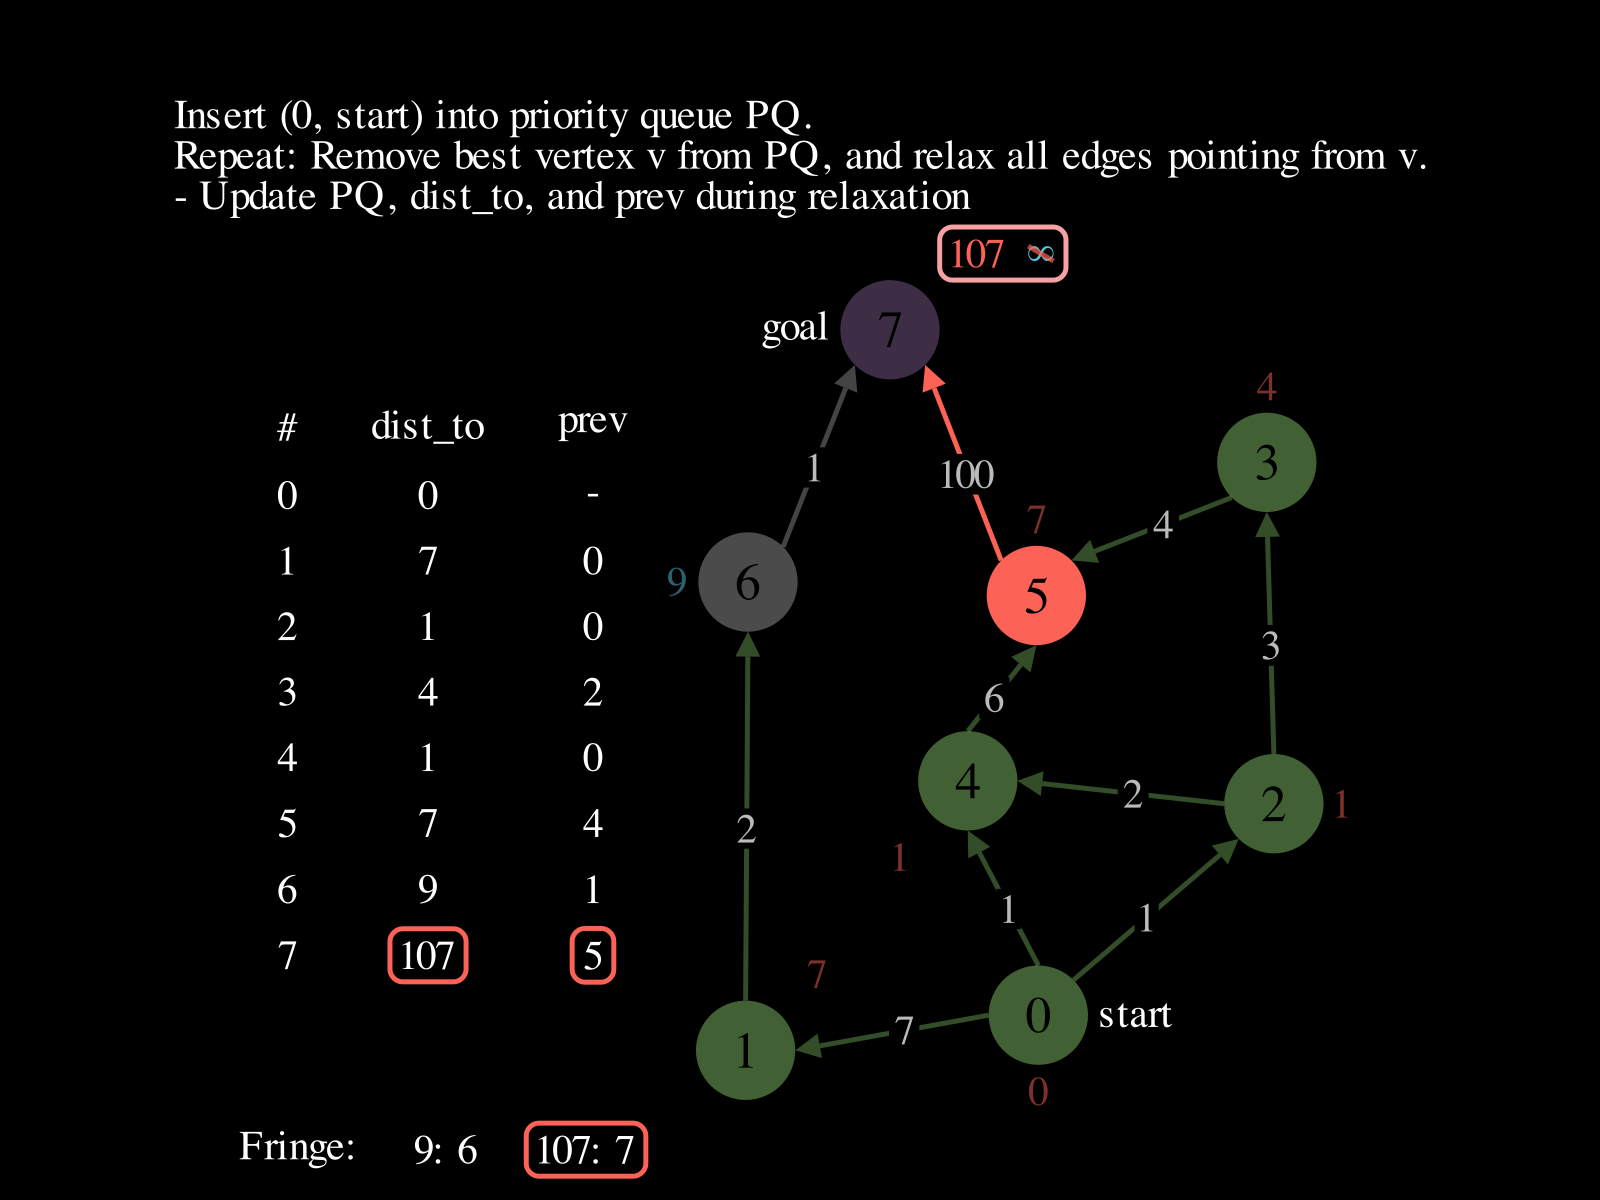
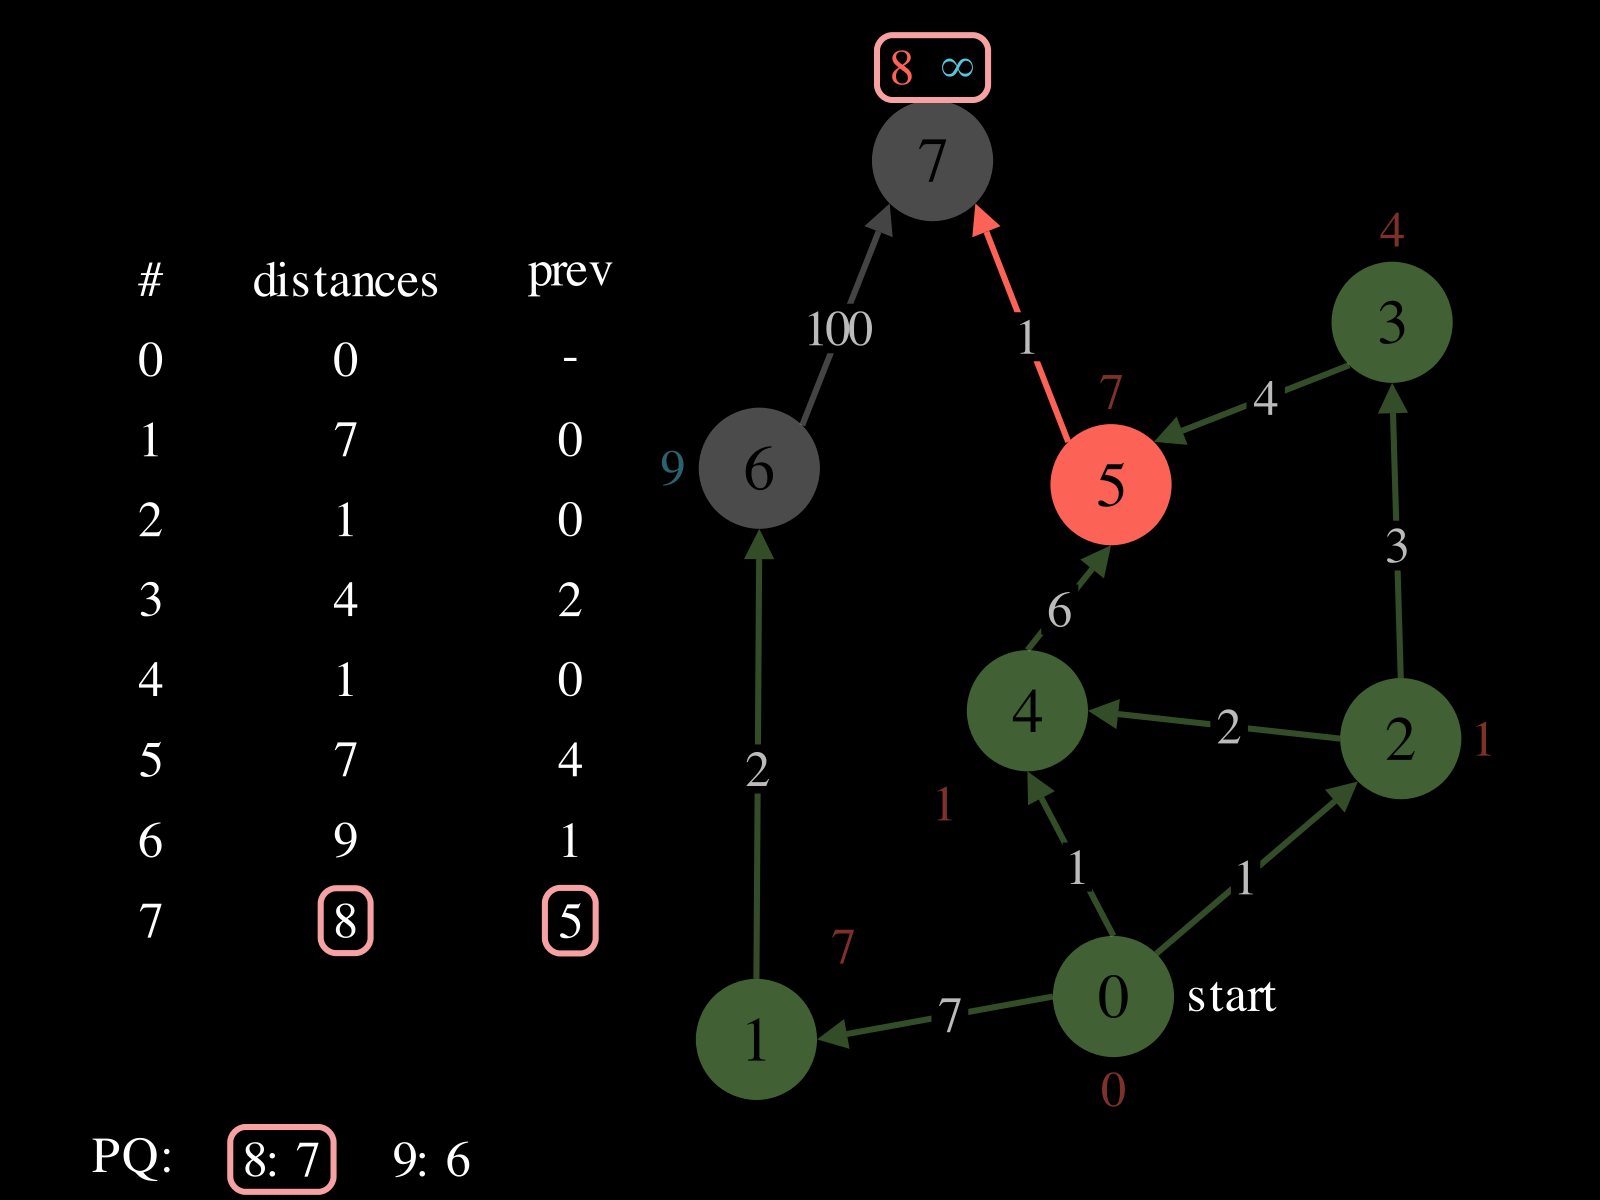
show pure dijkstras, not start to end, in slideshow; clean slideshow

diff --git a/manim-src/dijkstras_with_state.py b/manim-src/dijkstras_with_state.py
@@ -1,6 +1,6 @@
 from manim import *
 from dijkstras import WeightedDiGraph
-from typing import Hashable, Tuple
+from typing import Hashable, Tuple, Literal
 import heapq
 
 START_COLOR = GREEN
@@ -44,6 +44,20 @@ GRAPH2 = {
 START2 = 0
 END2 = 7
 
+# swap 2 weights in GRAPH2 to show how best dist already explored but we keep going
+GRAPH3 = {
+    0: [(1, 7), (2, 1), (4, 1)],
+    1: [(6, 2)],
+    2: [(3, 3), (4, 2)],
+    3: [(5, 4)],
+    4: [(5, 6)],
+    5: [(7, 1)],
+    6: [(7, 100)],
+    7: [],
+}
+START3 = 0
+END3 = 7
+
 config.frame_size = (1600, 1200)
 
 
@@ -64,7 +78,7 @@ class StatefulWeightedDiGraph(WeightedDiGraph):
         if text is None:
             text = "Insert (0, start) into priority queue PQ.\n"
             text += "Repeat: Remove best vertex v from PQ, and relax all edges pointing from v.\n"
-            text += "- Update PQ, dist_to, and prev during relaxation"
+            text += "- Update PQ, distances, and prev during relaxation"
         text_obj = Text(text, font_size=font_size)
         vertices = VGroup(*self.vertices.values())
         text_obj.next_to(vertices, UP, buff=0.5).to_edge(LEFT, buff=0.5)
@@ -75,7 +89,7 @@ class StatefulWeightedDiGraph(WeightedDiGraph):
         pq.sort()
         if self.fringe:
             self.remove(self.fringe)
-        fringe_group = VGroup(Text("Fringe: ", font_size=self.label_font_size))
+        fringe_group = VGroup(Text("PQ: ", font_size=self.label_font_size))
         fringe_elements = {}
         for key, value in pq:
             key_value_text = Text(f"{key}: {value}", font_size=self.label_font_size)
@@ -96,20 +110,20 @@ class StatefulWeightedDiGraph(WeightedDiGraph):
             fringe_elements  # used for drawing rect on dist label update
         )
 
-    def show_state_table(self, dist_to, prev):
+    def show_state_table(self, distances, prev):
         if self.table_of_state_vars:
             self.remove(self.table_of_state_vars)
 
         headers = [
-            Text(x, font_size=self.label_font_size) for x in ["#", "dist_to", "prev"]
+            Text(x, font_size=self.label_font_size) for x in ["#", "distances", "prev"]
         ]
         rows = [
             [
                 str(node),
-                "∞" if dist_to[node] == float("inf") else str(dist_to[node]),
+                "∞" if distances[node] == float("inf") else str(distances[node]),
                 str(prev.get(node, "-")),
             ]
-            for node in dist_to
+            for node in distances
         ]
 
         table = Table(
@@ -129,7 +143,7 @@ class StatefulWeightedDiGraph(WeightedDiGraph):
 
     def box_state_var(self, node, col, color=RED):
         # oddly the col indices go backwards
-        assert 1 <= col <= 3, "col must be 1 (#), 2 (dist_to), or 3 (prev)"
+        assert 1 <= col <= 3, "col must be 1 (#), 2 (distances), or 3 (prev)"
 
         # +2 = +1 for header +1 as weird workaround for avoiding last element
         dist_cell_to_focus = self.table_of_state_vars.get_entries_without_labels(
@@ -140,9 +154,17 @@ class StatefulWeightedDiGraph(WeightedDiGraph):
         )
         self.state_var_boxes.add(table_box)
 
-    def box_fringe_var(self, node, color=RED):
+    def box_fringe_var(
+        self, node, color=RED, style: Literal["outline", "fill"] = "outline"
+    ):
         fringe_box = SurroundingRectangle(
-            self.fringe_elements[node], color=color, buff=0.1, corner_radius=0.1
+            self.fringe_elements[node],
+            color=color,
+            stroke_opacity=0 if style == "fill" else 1,
+            fill_color=color,
+            fill_opacity=0.7 if style == "fill" else 0,
+            buff=0.1,
+            corner_radius=0.1,
         )
         self.state_var_boxes.add(fringe_box)
 
@@ -183,20 +205,60 @@ class ShortestPath(MovingCameraScene):
     def construct(self):
         # shortest path from start to end of graph
         # returns distance and path
-        def dijkstra(
+        def shortest_path_start_to_end(
             graph: Dict[int, List[Tuple[int, int]]],
             vgraph: StatefulWeightedDiGraph,
             start: int,
             end: int,
+        ):
+
+            distances, prev_vertex = shortest_path_helper(graph, vgraph, start, end)
+            if distances[end] == float("inf"):
+                return -1, []
+
+            path = []
+            node = end
+            # vgraph.show_explanation(
+            #     text="Now, follow the edges backwards, from goal to start"
+            # )
+            while node != start:
+                path.append(node)
+                prev = node  # used for tracking
+                node = prev_vertex[node]
+                vgraph.highlight_node(prev, color=FOCUS_COLOR, opacity=1.0)
+                vgraph.highlight_edge(node, prev, color=FOCUS_COLOR, opacity=1.0)
+                vgraph.box_state_var(prev, 3)
+                self.capture()
+                vgraph.highlight_node(prev, color=FOCUS_COLOR)
+                vgraph.highlight_edge(node, prev, color=FOCUS_COLOR)
+                vgraph.undo_all_box_state_vars()
+            path.append(start)
+            path.reverse()
+            vgraph.highlight_node(node, color=FOCUS_COLOR, opacity=1.0)
+            # vgraph.show_explanation(
+            #     f"The shortest path is {path} with distance {distances[end]}."
+            # )
+            self.capture()
+            return distances[end], path
+
+        # computes dijkstras shortest paths from start
+        # if end is not None, then stop when the end is reached
+        # returns (distances, prev_nodes)
+        def shortest_path_helper(
+            graph: Dict[int, List[Tuple[int, int]]],
+            vgraph: StatefulWeightedDiGraph,
+            start: int,
+            end: int | None = None,
         ) -> Tuple[float, List[int]]:
             distances = {node: float("inf") for node in graph}
             distances[start] = 0
             pq = [(0, start)]
-            prev_node = {}
-            reached = False
+            prev_vertex = {}
 
-            vgraph.show_explanation()
-            vgraph.show_state_table(distances, prev_node)
+            # for color tracking of dist values
+            visited = set([start])
+            # vgraph.show_explanation()
+            vgraph.show_state_table(distances, prev_vertex)
             new_pos = vgraph.get_center()
             self.camera.frame.shift(new_pos)
             scalar = 1.2
@@ -208,18 +270,19 @@ class ShortestPath(MovingCameraScene):
                 vgraph.show_fringe(pq)
                 cur_dist, cur_node = heapq.heappop(pq)
                 # step 1: show node being processed
+                visited.add(cur_node)
                 vgraph.show_dist_label(cur_node, cur_dist)
                 vgraph.highlight_node(cur_node, color=FOCUS_COLOR, opacity=1.0)
 
                 if cur_dist > distances[cur_node]:
                     continue
-                if cur_node == end:
-                    reached = True
-                    self.capture()
-                    vgraph.highlight_node(cur_node)
-                    break
 
-                vgraph.box_fringe_var(cur_node, color=GREEN)
+                # if end exists, stop when it is explored
+                if end is not None and cur_node == end:
+                    self.capture()
+                    return distances, prev_vertex
+
+                vgraph.box_fringe_var(cur_node, style="fill")
                 self.capture()
                 vgraph.undo_all_box_state_vars()
                 # step 2: show relaxation of edges
@@ -234,14 +297,15 @@ class ShortestPath(MovingCameraScene):
                     prev_neighbor_dist = distances[neighbor]  # used for tracking
                     if distance < distances[neighbor]:
                         distances[neighbor] = distance
-                        prev_node[neighbor] = cur_node
+                        prev_vertex[neighbor] = cur_node
                         heapq.heappush(pq, (distance, neighbor))
-                        vgraph.highlight_edge(cur_node, neighbor, opacity=1.0)
-                        vgraph.update_dist_label(
-                            neighbor, distance, prev_neighbor_dist, next(circle_colors)
-                        )
 
                         col = next(circle_colors)
+                        vgraph.highlight_edge(cur_node, neighbor, opacity=1.0)
+                        vgraph.update_dist_label(
+                            neighbor, distance, prev_neighbor_dist, col
+                        )
+
                         fringe_box_args_lst.append((neighbor, col))
                         box_state_var_args_lst.append((neighbor, 2, col))
                         box_state_var_args_lst.append((neighbor, 3, col))
@@ -252,10 +316,16 @@ class ShortestPath(MovingCameraScene):
                         )
 
                     _highlight_edge_args_lst.append((cur_node, neighbor, GREEN))
-                    _dist_label_args_lst.append((neighbor, distance, BEST_SO_FAR_COLOR))
+                    _dist_label_args_lst.append(
+                        (
+                            neighbor,
+                            distances[neighbor],
+                            RED if neighbor in visited else BEST_SO_FAR_COLOR,
+                        )
+                    )
 
                 vgraph.show_fringe(pq)
-                vgraph.show_state_table(distances, prev_node)
+                vgraph.show_state_table(distances, prev_vertex)
                 for args in box_state_var_args_lst:
                     vgraph.box_state_var(*args)
                 for args in fringe_box_args_lst:
@@ -269,41 +339,25 @@ class ShortestPath(MovingCameraScene):
                 for args in _highlight_edge_args_lst:
                     vgraph.highlight_edge(*args)
 
-            if reached:
-                path = []
-                node = end
-                vgraph.show_explanation(
-                    text="Now, follow the edges backwards, from goal to start"
-                )
-                while node != start:
-                    path.append(node)
-                    prev = node  # used for tracking
-                    node = prev_node[node]
-                    vgraph.highlight_node(prev, color=FOCUS_COLOR, opacity=1.0)
-                    vgraph.highlight_edge(node, prev, color=FOCUS_COLOR, opacity=1.0)
-                    vgraph.box_state_var(prev, 3)
-                    self.capture()
-                    vgraph.highlight_node(prev, color=FOCUS_COLOR)
-                    vgraph.highlight_edge(node, prev, color=FOCUS_COLOR)
-                    vgraph.undo_all_box_state_vars()
-                path.append(start)
-                path.reverse()
-                vgraph.highlight_node(node, color=FOCUS_COLOR, opacity=1.0)
-                vgraph.show_explanation(
-                    f"The shortest path is {path} with distance {distances[end]}."
-                )
-                self.capture()
-                return distances[end], path
-            return float("inf"), []
+            self.capture()
+            return distances, prev_vertex
 
         # file_suffix = 1
         # graph, start, end = GRAPH1, START1, END1
-        file_suffix = 2
-        graph, start, end = GRAPH2, START2, END2
+        # file_suffix = 2
+        # graph, start, end = GRAPH2, START2, END2
+
+        file_suffix = 3
+        graph, start, end = GRAPH3, START3, END3
         self.set_file_suffix(file_suffix)
         vertices, edges = ShortestPath.convert_graph_to_digraph_format(graph)
-        vgraph = StatefulWeightedDiGraph(vertices, edges, start=start, end=end)
-        self.add(vgraph)
+        # vgraph = StatefulWeightedDiGraph(vertices, edges, start=start, end=end)
+        # self.add(vgraph)
+        # visualize shortest path from start to end
+        # dist, path = shortest_path_start_to_end(graph, vgraph, start, end)
+        # print(dist, path)
 
-        dist, path = dijkstra(graph, vgraph, start, end)
-        print(dist, path)
+        # visualize shortest path from start to all other vertices (well not the paths but the creation of state vars that can yield the paths)
+        vgraph = StatefulWeightedDiGraph(vertices, edges, start=start)
+        self.add(vgraph)
+        dist, path = shortest_path_helper(graph, vgraph, start)

diff --git a/manim-src/dijkstras.py b/manim-src/dijkstras.py
@@ -236,6 +236,7 @@ class WeightedDiGraph(DiGraph):
         self.dist_labels[node] = dist_label
 
     def update_dist_label(self, node, dist, prev_dist, color=RED):
+        z_index_below, z_index_above = 20, 21
         dist_text = "∞" if dist == float("inf") else str(dist)
         prev_dist_text = "∞" if prev_dist == float("inf") else str(prev_dist)
         new_text = Text(
@@ -246,10 +247,18 @@ class WeightedDiGraph(DiGraph):
         )
         new_text.next_to(old_text, LEFT, buff=0.2)
 
-        text = VGroup(new_text, old_text)
+        text = VGroup(new_text, old_text).set_z_index(z_index_above)
         self.no_overlap_next_to(text, self.vertices[node], LEFT)
 
-        box = SurroundingRectangle(text, color=color, buff=0.1, corner_radius=0.1)
+        box = SurroundingRectangle(
+            text,
+            color=color,
+            fill_color=config.background_color,
+            fill_opacity=1.0,
+            z_index=z_index_below,
+            buff=0.1,
+            corner_radius=0.1,
+        )
 
         start_point = old_text.get_corner(UP + LEFT)
         end_point = old_text.get_corner(DOWN + RIGHT)
